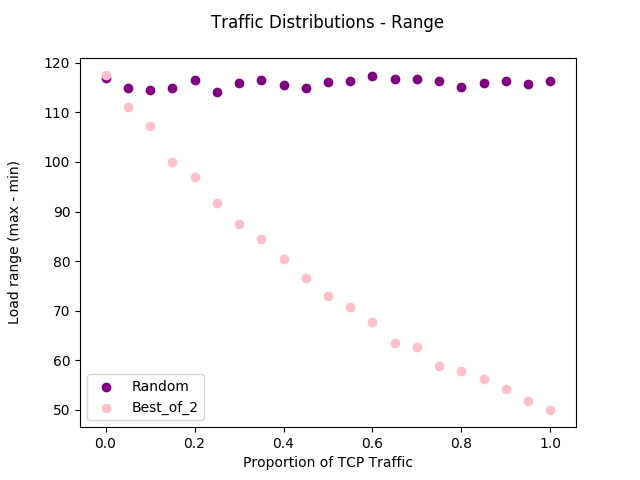
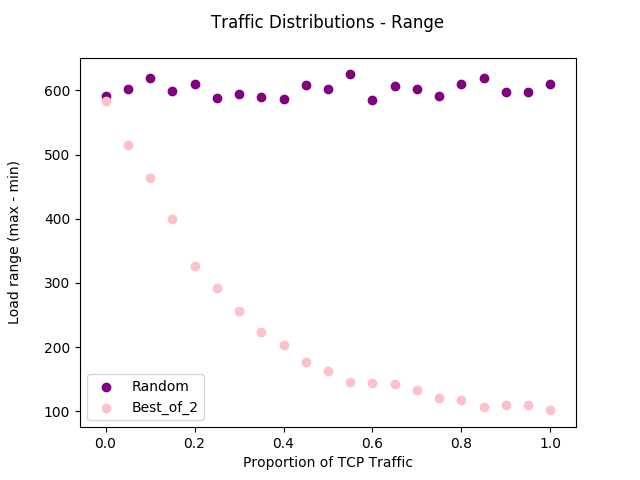
Further updates to code - added experiment for best-of-n

diff --git a/TrafficSimulator.java b/TrafficSimulator.java
@@ -1,47 +1,68 @@
 import java.util.*;
 import java.io.*;
+import org.apache.commons.math3.distribution.LogNormalDistribution;
 public class TrafficSimulator {
 	static boolean verbose = false;
 	static int nonblockingUpdateFreq;
-	static int numServers = 10;
+	static int numServers = 100;
 	static double propTCP = 0.95;
-	static int numTrials = 1000;
+	static int numTrials = 50;
 	static IncomingTraffic it;
 	static String updateFreqFile = "/home/mkirsche/github/ACNProject/updatefreq.txt";
 	static String tcpPropFile = "/home/mkirsche/github/ACNProject/tcpprop.txt";
-	static PrintWriter out;
+	static String tcpPropRangeFile = "/home/mkirsche/github/ACNProject/tcpproprange.txt";
+	static String packetDelayFile = "/home/mkirsche/github/ACNProject/packetdelay.txt";
+	static PrintWriter out, out2, pdout;
 public static void main(String[] args) throws IOException
 {
 	initSeed();
-	int numRequests = 100;
+	
+	pdout = new PrintWriter(new File(packetDelayFile));
+	pdout.println("Time Between Packets");
+	
+	int numRequests = 10000;
 	int requestSize = 10;
 	int spacing = 4;
 	it = new IncomingTraffic(numRequests, requestSize, spacing, propTCP);
 	System.out.println("Parameters: " + numRequests + " " + requestSize + " " + spacing + " " + numServers);
-	runBaseline();
-	testBestOf2Hashing();
-	runNonblockingTest();
-	testTCPProp();
+	//runBaseline();
+	//testBestOf2Hashing();
+	//runNonblockingTest();
+	//testTCPProp();
+	testMoreBits();
+	pdout.close();
 }
 static void testTCPProp() throws IOException
 {
 	out = new PrintWriter(new File(tcpPropFile));
-	out.println("Traffic Distributions");
+	out2 = new PrintWriter(new File(tcpPropRangeFile));
+	
+	out.println("Traffic Distributions - Standard Deviation");
 	out.println("Proportion of TCP Traffic");
 	out.println("Load standard deviation");
+	
+	out2.println("Traffic Distributions - Range");
+	out2.println("Proportion of TCP Traffic");
+	out2.println("Load range (max - min)");
+	
 	double tmp = propTCP;
-	for(int i = 0; i<=20; i++)
+	for(int scheme = 0; scheme < 2; scheme++)
 	{
-		double cur = 0.05 * i;
-		propTCP = cur;
-		System.out.println("Set TCP Proportion to " + String.format("%.2f", propTCP));
-		double res = simulate(it, numServers, 1, propTCP, numTrials);
-		out.println(cur+" "+res+" "+"Best_of_2");
-		res = simulate(it, numServers, 0, propTCP, numTrials);
-		out.println(cur+" "+res+" "+"Random");
+		for(int i = 0; i<=20; i++)
+		{
+			double cur = 0.05 * i;
+			propTCP = cur;
+			System.out.println("Set TCP Proportion to " + String.format("%.2f", propTCP));
+			double[] res = simulate(it, numServers, scheme, propTCP, numTrials);
+			double stdev = res[0];
+			double range = res[2] - res[1];
+			out.println(cur+" "+stdev+" "+schemeNames[scheme]);
+			out2.println(cur+" "+range+" "+schemeNames[scheme]);
+		}
 	}
 	propTCP = tmp;
 	out.close();
+	out2.close();
 }
 /*
  * Runs baseline algorithm
@@ -55,7 +76,12 @@ static void runBaseline()
  */
 static void testBestOf2Hashing()
 {
-	for(int i = 1; i<=2; i++) simulate(it, numServers, i, propTCP, numTrials);
+	for(int i= 1; i<=2; i++) simulate(it, numServers, i, propTCP, numTrials);
+}
+static void testMoreBits()
+{
+	int[] runs = new int[] {0, 1, 4, 5};
+	for(int x : runs) simulate(it, numServers, x, propTCP, numTrials);
 }
 /*
  * Tests different update frequencies for "non-blocking" variant
@@ -72,7 +98,7 @@ static void runNonblockingTest() throws IOException
 	{
 		nonblockingUpdateFreq = f;
 		System.out.println("Set update freq to " +  nonblockingUpdateFreq);
-		double res = simulate(it, numServers, 3, propTCP, numTrials);
+		double res = simulate(it, numServers, 3, propTCP, numTrials)[0];
 		out.println(nonblockingUpdateFreq+" "+res);
 	}
 	nonblockingUpdateFreq = tmp;
@@ -81,11 +107,11 @@ static void runNonblockingTest() throws IOException
 static void initSeed()
 {
 	r = new Random(135792468);
-	seed = r.nextInt(987654321);
-	seed2 = r.nextInt(987654321);
+	seeds = new int[8];
+	for(int i = 0; i<seeds.length; i++) seeds[i] = r.nextInt(987654321);
 }
 static Random r;
-static int seed, seed2;
+static int[] seeds;
 static int hash(int val, int s, int m)
 {
 	Random curr = new Random(s);
@@ -102,15 +128,18 @@ static boolean nonblocking(int scheme)
 	return scheme == 3;
 }
 
-static String[] schemeNames = {"Random", "Best of 2", "Best of 2 (adjacent)", "Best of 2 (non-blocking)"};
+static String[] schemeNames = {"Random", "Best_of_2", "Best_of_2_adjacent", "Best_of_2_non-blocking", 
+		"Best_of_4", "Best_of_8"};
 /*
  * Schemes:
  * 0 = random
  * 1 = best of 2
  * 2 = best of 2 adjacent
  * 3 = best of 2 non-blocking
+ * 4 = best of 4
+ * 5 = best of 8
  */
-static double simulate(IncomingTraffic it, int numServers, int scheme, double propTCP, int trials)
+static double[] simulate(IncomingTraffic it, int numServers, int scheme, double propTCP, int trials)
 {
 	double avgStdev = 0;
 	double avgMin = 0;
@@ -140,22 +169,22 @@ static double simulate(IncomingTraffic it, int numServers, int scheme, double pr
 				}
 				else if(scheme == 1)
 				{
-					int hash1 = hash(cur.job, seed, numServers);
-					int hash2 = hash(cur.job, seed2, numServers);
+					int hash1 = hash(cur.job, seeds[0], numServers);
+					int hash2 = hash(cur.job, seeds[1], numServers);
 					if(count[hash1] > count[hash2]) cur.extra = 1;
 					else cur.extra = 0;
 				}
 				else if(scheme == 2)
 				{
-					int hash1 = hash(cur.job, seed, numServers);
+					int hash1 = hash(cur.job, seeds[0], numServers);
 					int hash2 = (hash1 + 1)%numServers;
 					if(count[hash1] > count[hash2]) cur.extra = 1;
 					else cur.extra = 0;
 				}
 				else if(scheme == 3)
 				{
-					int hash1 = hash(cur.job, seed, numServers);
-					int hash2 = hash(cur.job, seed2, numServers);
+					int hash1 = hash(cur.job, seeds[0], numServers);
+					int hash2 = hash(cur.job, seeds[1], numServers);
 					if(countPseudotime - countLastUpdated[hash1] > nonblockingUpdateFreq)
 						seenCount[hash1] = count[hash1];
 					if(countPseudotime - countLastUpdated[hash2] > nonblockingUpdateFreq)
@@ -163,11 +192,38 @@ static double simulate(IncomingTraffic it, int numServers, int scheme, double pr
 					if(seenCount[hash1] > seenCount[hash2]) cur.extra = 1;
 					else cur.extra = 0;
 				}
+				else if(scheme == 4)
+				{
+					int[] ids = new int[4];
+					for(int i = 0; i<ids.length; i++) ids[i] = hash(cur.job, seeds[i], numServers);
+					int[] counts = new int[ids.length];
+					for(int i = 0; i<counts.length; i++) counts[i] = count[ids[i]];
+					int best = 0;
+					for(int i = 1; i<counts.length; i++)
+					{
+						if(counts[i] < counts[best]) best = i;
+					}
+					cur.extra = best;
+				}
+				else if(scheme == 5)
+				{
+					int[] ids = new int[8];
+					for(int i = 0; i<ids.length; i++) ids[i] = hash(cur.job, seeds[i], numServers);
+					int[] counts = new int[ids.length];
+					for(int i = 0; i<counts.length; i++) counts[i] = count[ids[i]];
+					int best = 0;
+					for(int i = 1; i<counts.length; i++)
+					{
+						if(counts[i] < counts[best]) best = i;
+					}
+					cur.extra = best;
+				}
 				numRequests += it.processSynAck(cur);
 				continue;
 			}
 			// Hash the request number
-			int hash = hash(cur.job, (cur.extra == 0 || scheme == 2) ? seed : seed2, numServers);
+			int hash = hash(cur.job, seeds[cur.extra], numServers);
+			if(scheme == 2) hash = hash(cur.job, seeds[0], numServers);
 			if(scheme == 2 && cur.extra > 0) hash =  (hash + 1)%numServers;
 			count[hash]++;
 		}
@@ -207,11 +263,13 @@ static double simulate(IncomingTraffic it, int numServers, int scheme, double pr
 	System.out.println("Average Standard Deviation: " + avgStdev);
 	System.out.println("Average min: " + avgMin);
 	System.out.println("Average max: " + avgMax);
+	System.out.println("Average range: " + (avgMax - avgMin));
 	System.out.println();
-	return avgStdev;
+	return new double[] {avgStdev, avgMin, avgMax};
 }
 static class IncomingTraffic
 {
+	LogNormalDistribution lnd;
 	PriorityQueue<Packet> pq = new PriorityQueue<Packet>();
 	int numRequests; // How many requests are sent
 	int requestSize; // Number of packets per request
@@ -222,6 +280,7 @@ static class IncomingTraffic
 		numRequests = nn;
 		requestSize = rr;
 		spacing = ss;
+		lnd = new LogNormalDistribution(spacing, Math.sqrt(spacing));
 		propTCP = pt;
 	}
 	int getSize(int requestSize)
@@ -236,7 +295,13 @@ static class IncomingTraffic
 		{
 			int extra = -1;
 			pq.add(new Packet(time, r.nextInt(987654321), extra));
-			time += spacing + r.nextInt(3) - 1;
+			int delay = (int)(lnd.sample() + 0.5);
+			while(delay < 1 || delay > spacing + 10 * Math.sqrt(spacing))
+			{
+				delay = (int)(lnd.sample() + 0.5);
+			}
+			pdout.println(delay);
+			time += delay;
 		}
 	}
 	int processSynAck(Packet p)

diff --git a/Histogram.py b/Histogram.py
@@ -1,0 +1,29 @@
+"""
+Code for generating a histogram
+
+First line is title
+Each following line has a data point
+
+"""
+import sys
+import matplotlib.pyplot as plt
+import numpy as np
+
+fn = sys.argv[1]
+with open(fn) as f:
+    lines = f.readlines()
+    data = []
+    maxval = 0
+    for i in range(1, len(lines)):
+        data.append(float(lines[i]))
+        if float(lines[i]) > maxval:
+            maxval = float(lines[i])
+    mv = int(maxval + 1)
+    step = max(1, int(maxval/50.0))
+    plt.hist(data, bins = np.arange(0, int(maxval + 1), step))
+    plt.title(lines[0])
+
+if len(sys.argv) > 2:
+    plt.savefig(sys.argv[2])
+else:
+    plt.show()
